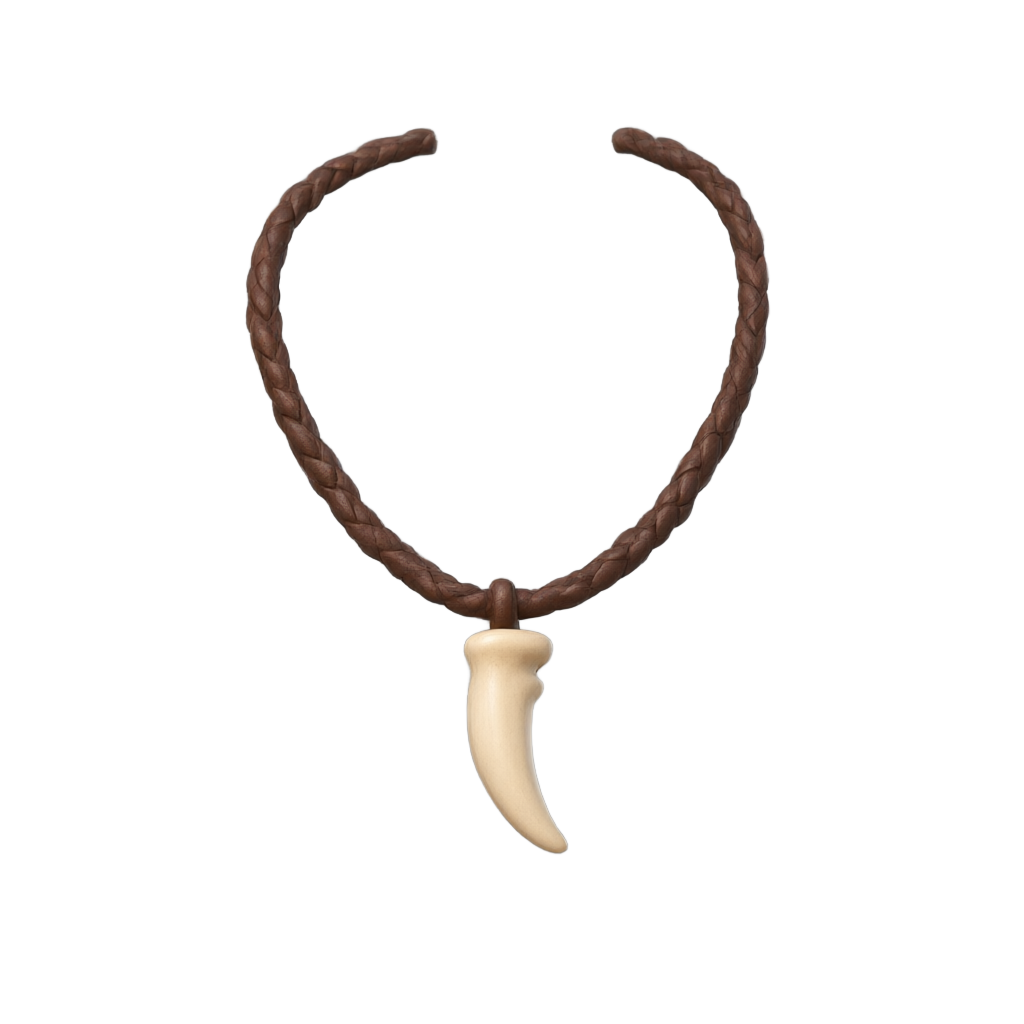
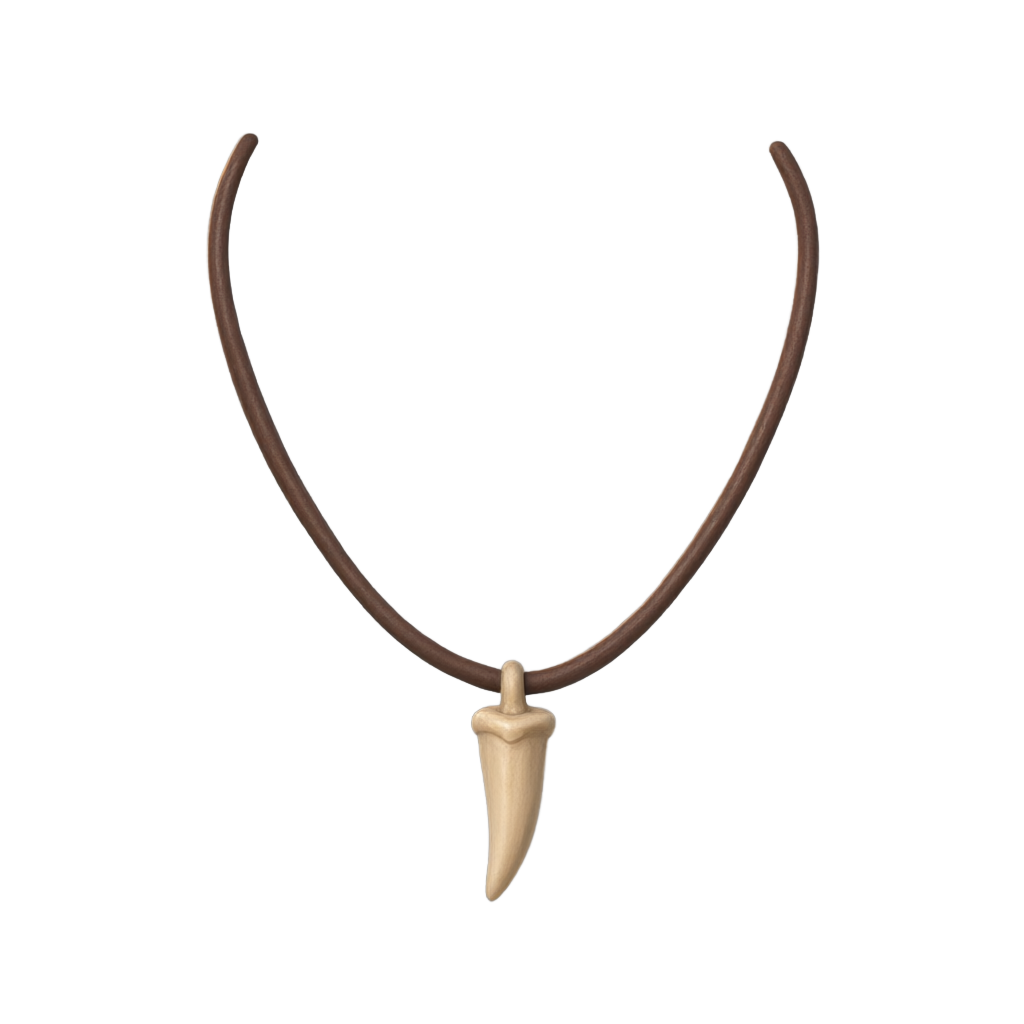
Rescale dragon wings/tail/necklace for the front-facing pose
Wings and tail sizes were never recalibrated after the front-facing
pose's 0.692 body-scale correction, leaving wings too small and
forcing the tail anchor into an overcorrected floating position.
Regenerated the fang necklace art as a tight closed loop instead of
the previous wide open hoop so it sits on the neck properly.

Changed region(s): [[0.1875, 0.125, 0.8125, 0.875]]

diff --git a/games/dragon/art.js b/games/dragon/art.js
@@ -1,6 +1,6 @@
 
-import { palet, HEADS, FACES } from './data.js?v58';
-import { CONFIG, growthRatio } from './config.js?v58';
+import { palet, HEADS, FACES } from './data.js?v59';
+import { CONFIG, growthRatio } from './config.js?v59';
 
 let uidSayaci = 0;
 
@@ -818,7 +818,7 @@ const GORSEL = {
   omuzSol: { x: 362, y: 560 },
   omuzSag: { x: 661, y: 560 },
 
-  kalca: { x: 830, y: 660 },
+  kalca: { x: 772, y: 700 },
 
   tepe: { x: 511, y: 230 },
   yuz: { x: 511, y: 455 },
@@ -845,42 +845,42 @@ const KATMAN = {
     leather: {
       yol: 'assets/wing-leather.png',
       kare: 1024, x0: 223, y0: 191, x1: 863, y1: 837,
-      kok: { x: 267, y: 715 }, uzanim: 0.53, govdeRengi: true,
+      kok: { x: 267, y: 715 }, uzanim: 0.74, govdeRengi: true,
     },
     flame: {
       yol: 'assets/wing-flame.png',
       kare: 1024, x0: 148, y0: 93, x1: 933, y1: 916,
-      kok: { x: 201, y: 747 }, uzanim: 0.54,
+      kok: { x: 201, y: 747 }, uzanim: 0.76,
     },
     crystal: {
       yol: 'assets/wing-crystal.png',
       kare: 1024, x0: 210, y0: 135, x1: 909, y1: 864,
-      kok: { x: 260, y: 779 }, uzanim: 0.545,
+      kok: { x: 260, y: 779 }, uzanim: 0.76,
     },
     demon: {
       yol: 'assets/wing-demon.png',
       kare: 1024, x0: 176, y0: 110, x1: 907, y1: 914,
-      kok: { x: 229, y: 852 }, uzanim: 0.55,
+      kok: { x: 229, y: 852 }, uzanim: 0.77,
     },
     phoenix: {
       yol: 'assets/wing-phoenix.png',
       kare: 1024, x0: 202, y0: 59, x1: 931, y1: 879,
-      kok: { x: 253, y: 723 }, uzanim: 0.555,
+      kok: { x: 253, y: 723 }, uzanim: 0.78,
     },
     lightning: {
       yol: 'assets/wing-lightning.png',
       kare: 1024, x0: 122, y0: 163, x1: 977, y1: 810,
-      kok: { x: 186, y: 699 }, uzanim: 0.63,
+      kok: { x: 186, y: 699 }, uzanim: 0.88,
     },
     king: {
       yol: 'assets/wing-king.png',
       kare: 1024, x0: 147, y0: 148, x1: 923, y1: 907,
-      kok: { x: 207, y: 761 }, uzanim: 0.565,
+      kok: { x: 207, y: 761 }, uzanim: 0.79,
     },
     celestial: {
       yol: 'assets/wing-celestial.png',
       kare: 1024, x0: 183, y0: 167, x1: 873, y1: 883,
-      kok: { x: 234, y: 805 }, uzanim: 0.57,
+      kok: { x: 234, y: 805 }, uzanim: 0.80,
     },
   },
 
@@ -973,8 +973,8 @@ const KATMAN = {
   necklace: {
     fang: {
       yol: 'assets/necklace-fang.png',
-      kare: 1024, x0: 244, y0: 124, x1: 772, y1: 856,
-      kok: { x: 508, y: 124 }, en: 0.29,
+      kare: 1024, x0: 205, y0: 131, x1: 821, y1: 904,
+      kok: { x: 513, y: 131 }, en: 0.40,
     },
     bronze: {
       yol: 'assets/necklace-bronze.png',

diff --git a/games/dragon/dragon.js b/games/dragon/dragon.js
@@ -1,6 +1,6 @@
 
-import { initTelegram, haptic, showBackButton, backToHubOnResume, getUser } from '../../js/tg.js?v58';
-import { registerTexts, registerItemTexts, t, applyStaticTexts, locale } from '../../js/i18n-hook.js?v58';
+import { initTelegram, haptic, showBackButton, backToHubOnResume, getUser } from '../../js/tg.js?v59';
+import { registerTexts, registerItemTexts, t, applyStaticTexts, locale } from '../../js/i18n-hook.js?v59';
 
 const OWNER_ID = '8100679296';
 if (getUser().id !== OWNER_ID) {
@@ -21,14 +21,14 @@ if (getUser().id !== OWNER_ID) {
   throw new Error('dragon-island-maintenance');
 }
 
-import { CONFIG, feedCost, xpNeeded, rewardForLevel } from './config.js?v58';
-import { SLOTS, KATALOG, AURAS, ISLANDS, RARITIES, ada as adaTemasi } from './data.js?v58';
-import { bakiyeOku, harca } from './economy.js?v58';
+import { CONFIG, feedCost, xpNeeded, rewardForLevel } from './config.js?v59';
+import { SLOTS, KATALOG, AURAS, ISLANDS, RARITIES, ada as adaTemasi } from './data.js?v59';
+import { bakiyeOku, harca } from './economy.js?v59';
 import { oyuncuyuYukle, oyuncuyuKaydet, aktifEjderha, sahipMi, dolabaEkle,
-         adaSahipMi, adaEkle } from './model.js?v58';
-import { dragonSvg, faceSvg, GOVDE_MERKEZ_ORANI, dragonAssetUrls } from './art.js?v58';
-import { ITEM_TEXTS } from './i18n-items.js?v58';
-import { createIsland } from './island.js?v58';
+         adaSahipMi, adaEkle } from './model.js?v59';
+import { dragonSvg, faceSvg, GOVDE_MERKEZ_ORANI, dragonAssetUrls } from './art.js?v59';
+import { ITEM_TEXTS } from './i18n-items.js?v59';
+import { createIsland } from './island.js?v59';
 
 const GAME_ID = 'dragon';
 

diff --git a/js/i18n.js b/js/i18n.js
@@ -11,7 +11,7 @@ const DICT = {
     'hub.title': 'MINI HUB GAMES',
     'hub.subtitle': 'Play the games, earn $MH, and be part of our growing crypto ecosystem.',
     'hub.gamesTitle': 'Games',
-    'hub.version': 'Version 0.45',
+    'hub.version': 'Version 0.46',
     'hub.play': 'Play',
     'hub.soon': 'Soon',
     'hub.maintenance': 'Maintenance',
@@ -288,7 +288,7 @@ const DICT = {
     'hub.title': 'MINI HUB GAMES',
     'hub.subtitle': 'Oyunları oyna, $MH kazan ve büyüyen kripto ekosistemimizin bir parçası ol.',
     'hub.gamesTitle': 'Oyunlar',
-    'hub.version': 'Sürüm 0.45',
+    'hub.version': 'Sürüm 0.46',
     'hub.play': 'Oyna',
     'hub.soon': 'Yakında',
     'hub.maintenance': 'Bakımda',
@@ -565,7 +565,7 @@ const DICT = {
     'hub.title': 'MINI HUB GAMES',
     'hub.subtitle': 'Juega, gana $MH y forma parte de nuestro creciente ecosistema cripto.',
     'hub.gamesTitle': 'Juegos',
-    'hub.version': 'Versión 0.45',
+    'hub.version': 'Versión 0.46',
     'hub.play': 'Jugar',
     'hub.soon': 'Pronto',
     'hub.maintenance': 'Mantenimiento',
@@ -842,7 +842,7 @@ const DICT = {
     'hub.title': 'MINI HUB GAMES',
     'hub.subtitle': 'Играй, зарабатывай $MH и стань частью нашей растущей крипто-экосистемы.',
     'hub.gamesTitle': 'Игры',
-    'hub.version': 'Версия 0.45',
+    'hub.version': 'Версия 0.46',
     'hub.play': 'Играть',
     'hub.soon': 'Скоро',
     'hub.maintenance': 'Обслуживание',

diff --git a/games/tripletile/tripletile.js b/games/tripletile/tripletile.js
@@ -1,8 +1,8 @@
 
-import { initTelegram, haptic, showBackButton, backToHubOnResume } from '../../js/tg.js?v58';
-import { submitScore, addPoints, getBest, saveState, loadState, clearState, settleAbandonedRun } from '../../js/store.js?v58';
-import { registerTexts, t, applyStaticTexts, locale } from '../../js/i18n-hook.js?v58';
-import { SFX, soundToggleHtml, mountSoundToggle } from '../../js/audio.js?v58';
+import { initTelegram, haptic, showBackButton, backToHubOnResume } from '../../js/tg.js?v59';
+import { submitScore, addPoints, getBest, saveState, loadState, clearState, settleAbandonedRun } from '../../js/store.js?v59';
+import { registerTexts, t, applyStaticTexts, locale } from '../../js/i18n-hook.js?v59';
+import { SFX, soundToggleHtml, mountSoundToggle } from '../../js/audio.js?v59';
 
 const GAME_ID = 'tripletile';
 const POINTS_DIVISOR = 6;

diff --git a/games/flow/flow.js b/games/flow/flow.js
@@ -1,8 +1,8 @@
 
-import { initTelegram, haptic, showBackButton, backToHubOnResume } from '../../js/tg.js?v58';
-import { submitScore, addPoints, getBest, saveState, loadState, clearState, spendRestartEnergy } from '../../js/store.js?v58';
-import { registerTexts, t, applyStaticTexts, locale } from '../../js/i18n-hook.js?v58';
-import { SFX, soundToggleHtml, mountSoundToggle } from '../../js/audio.js?v58';
+import { initTelegram, haptic, showBackButton, backToHubOnResume } from '../../js/tg.js?v59';
+import { submitScore, addPoints, getBest, saveState, loadState, clearState, spendRestartEnergy } from '../../js/store.js?v59';
+import { registerTexts, t, applyStaticTexts, locale } from '../../js/i18n-hook.js?v59';
+import { SFX, soundToggleHtml, mountSoundToggle } from '../../js/audio.js?v59';
 
 const GAME_ID = 'flow';
 const POINTS_PER_LEVEL = 48;

diff --git a/games/blockblast/blockblast.js b/games/blockblast/blockblast.js
@@ -1,8 +1,8 @@
 
-import { initTelegram, haptic, showBackButton, backToHubOnResume } from '../../js/tg.js?v58';
-import { submitScore, addPoints, getBest, saveState, loadState, clearState, settleAbandonedRun } from '../../js/store.js?v58';
-import { registerTexts, t, applyStaticTexts, locale } from '../../js/i18n-hook.js?v58';
-import { SFX, soundToggleHtml, mountSoundToggle } from '../../js/audio.js?v58';
+import { initTelegram, haptic, showBackButton, backToHubOnResume } from '../../js/tg.js?v59';
+import { submitScore, addPoints, getBest, saveState, loadState, clearState, settleAbandonedRun } from '../../js/store.js?v59';
+import { registerTexts, t, applyStaticTexts, locale } from '../../js/i18n-hook.js?v59';
+import { SFX, soundToggleHtml, mountSoundToggle } from '../../js/audio.js?v59';
 
 const GAME_ID = 'blockblast';
 const SIZE = 8;

diff --git a/games/match3/match3.js b/games/match3/match3.js
@@ -1,8 +1,8 @@
 
-import { initTelegram, haptic, showBackButton, backToHubOnResume } from '../../js/tg.js?v58';
-import { submitScore, addPoints, getBest, saveState, loadState, clearState, settleAbandonedRun } from '../../js/store.js?v58';
-import { registerTexts, t, applyStaticTexts, locale } from '../../js/i18n-hook.js?v58';
-import { SFX, soundToggleHtml, mountSoundToggle } from '../../js/audio.js?v58';
+import { initTelegram, haptic, showBackButton, backToHubOnResume } from '../../js/tg.js?v59';
+import { submitScore, addPoints, getBest, saveState, loadState, clearState, settleAbandonedRun } from '../../js/store.js?v59';
+import { registerTexts, t, applyStaticTexts, locale } from '../../js/i18n-hook.js?v59';
+import { SFX, soundToggleHtml, mountSoundToggle } from '../../js/audio.js?v59';
 
 const GAME_ID = 'match3';
 const SIZE = 8;

diff --git a/games/2048/2048.js b/games/2048/2048.js
@@ -1,8 +1,8 @@
 
-import { initTelegram, haptic, showBackButton, backToHubOnResume } from '../../js/tg.js?v58';
-import { submitScore, getBest, addPoints, saveState, loadState, clearState, settleAbandonedRun } from '../../js/store.js?v58';
-import { initLang, t, locale, applyTranslations } from '../../js/i18n.js?v58';
-import { SFX, soundToggleHtml, mountSoundToggle } from '../../js/audio.js?v58';
+import { initTelegram, haptic, showBackButton, backToHubOnResume } from '../../js/tg.js?v59';
+import { submitScore, getBest, addPoints, saveState, loadState, clearState, settleAbandonedRun } from '../../js/store.js?v59';
+import { initLang, t, locale, applyTranslations } from '../../js/i18n.js?v59';
+import { SFX, soundToggleHtml, mountSoundToggle } from '../../js/audio.js?v59';
 
 const SIZE = 4;
 const GAME_ID = '2048';

diff --git a/games/snake/snake.js b/games/snake/snake.js
@@ -1,8 +1,8 @@
 
-import { initTelegram, haptic, showBackButton, backToHubOnResume } from '../../js/tg.js?v58';
-import { submitScore, addPoints, getBest, clearState, settleAbandonedRun } from '../../js/store.js?v58';
-import { registerTexts, t, applyStaticTexts, locale } from '../../js/i18n-hook.js?v58';
-import { SFX, soundToggleHtml, mountSoundToggle } from '../../js/audio.js?v58';
+import { initTelegram, haptic, showBackButton, backToHubOnResume } from '../../js/tg.js?v59';
+import { submitScore, addPoints, getBest, clearState, settleAbandonedRun } from '../../js/store.js?v59';
+import { registerTexts, t, applyStaticTexts, locale } from '../../js/i18n-hook.js?v59';
+import { SFX, soundToggleHtml, mountSoundToggle } from '../../js/audio.js?v59';
 
 const GAME_ID = 'snake';
 const INTRO_SEEN_KEY = 'mh_snake_seen';

diff --git a/games/watersort/watersort.js b/games/watersort/watersort.js
@@ -1,8 +1,8 @@
 
-import { initTelegram, haptic, showBackButton, backToHubOnResume } from '../../js/tg.js?v58';
-import { submitScore, addPoints, getBest, saveState, loadState, clearState } from '../../js/store.js?v58';
-import { registerTexts, t, applyStaticTexts } from '../../js/i18n-hook.js?v58';
-import { SFX, soundToggleHtml, mountSoundToggle } from '../../js/audio.js?v58';
+import { initTelegram, haptic, showBackButton, backToHubOnResume } from '../../js/tg.js?v59';
+import { submitScore, addPoints, getBest, saveState, loadState, clearState } from '../../js/store.js?v59';
+import { registerTexts, t, applyStaticTexts } from '../../js/i18n-hook.js?v59';
+import { SFX, soundToggleHtml, mountSoundToggle } from '../../js/audio.js?v59';
 
 const GAME_ID = 'watersort';
 const POINTS_PER_LEVEL = 90;

diff --git a/games/dragon/index.html b/games/dragon/index.html
@@ -12,9 +12,9 @@
       if (sessionStorage.getItem('mh_hub_open') !== '1') location.replace('../../index.html');
     } catch (e) {}
   </script>
-  <link rel="stylesheet" href="../../css/style.css?v58">
-  <link rel="stylesheet" href="../../css/game.css?v58">
-  <link rel="stylesheet" href="dragon.css?v58">
+  <link rel="stylesheet" href="../../css/style.css?v59">
+  <link rel="stylesheet" href="../../css/game.css?v59">
+  <link rel="stylesheet" href="dragon.css?v59">
 </head>
 <body class="game" data-i18n-title="title">
   <div class="boot-loader" id="boot-loader">
@@ -127,6 +127,6 @@
 
   </div>
 
-  <script type="module" src="dragon.js?v58"></script>
+  <script type="module" src="dragon.js?v59"></script>
 </body>
 </html>

diff --git a/games/blockblast/index.html b/games/blockblast/index.html
@@ -12,9 +12,9 @@
       if (sessionStorage.getItem('mh_hub_open') !== '1') location.replace('../../index.html');
     } catch (e) {}
   </script>
-  <link rel="stylesheet" href="../../css/style.css?v58">
-  <link rel="stylesheet" href="../../css/game.css?v58">
-  <link rel="stylesheet" href="blockblast.css?v58">
+  <link rel="stylesheet" href="../../css/style.css?v59">
+  <link rel="stylesheet" href="../../css/game.css?v59">
+  <link rel="stylesheet" href="blockblast.css?v59">
 </head>
 <body class="game" data-i18n-title="title">
   <div class="app game-app">
@@ -65,6 +65,6 @@
 
   </div>
 
-  <script type="module" src="blockblast.js?v58"></script>
+  <script type="module" src="blockblast.js?v59"></script>
 </body>
 </html>
